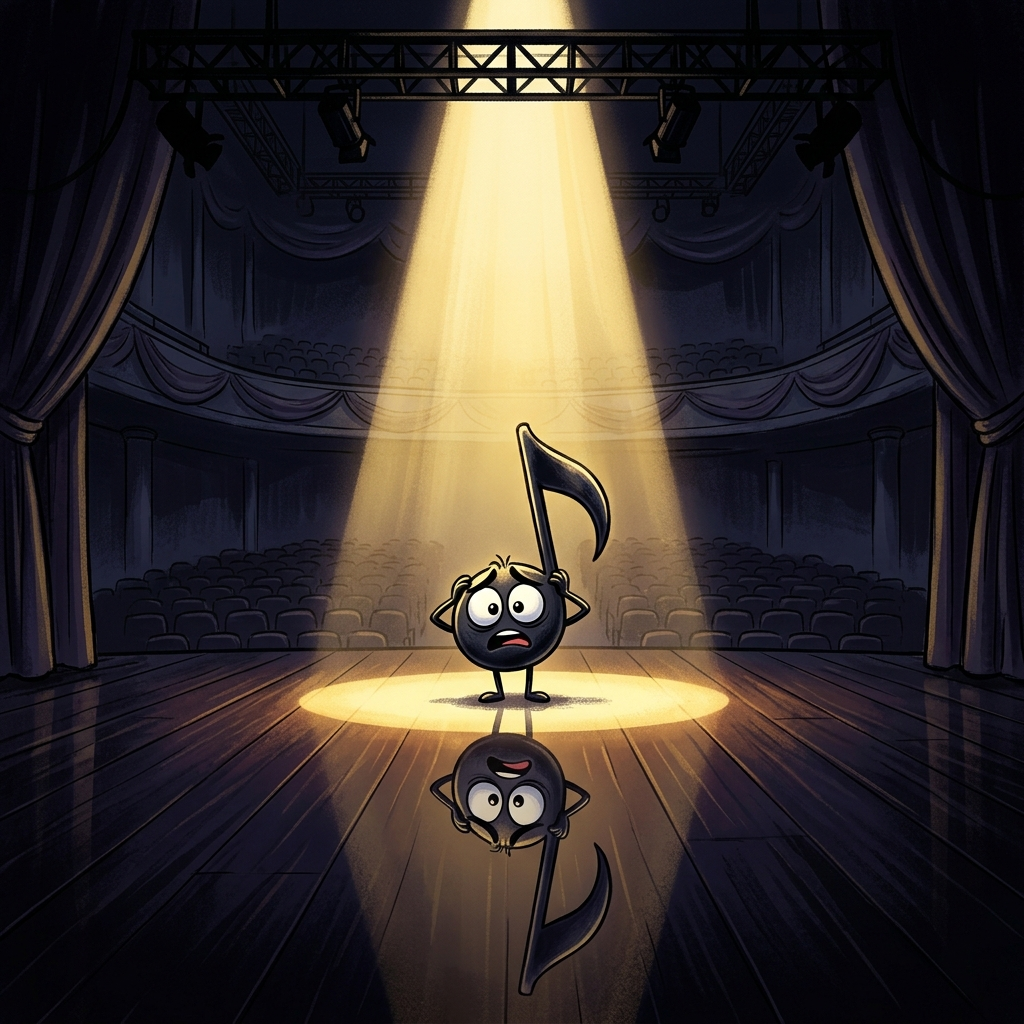
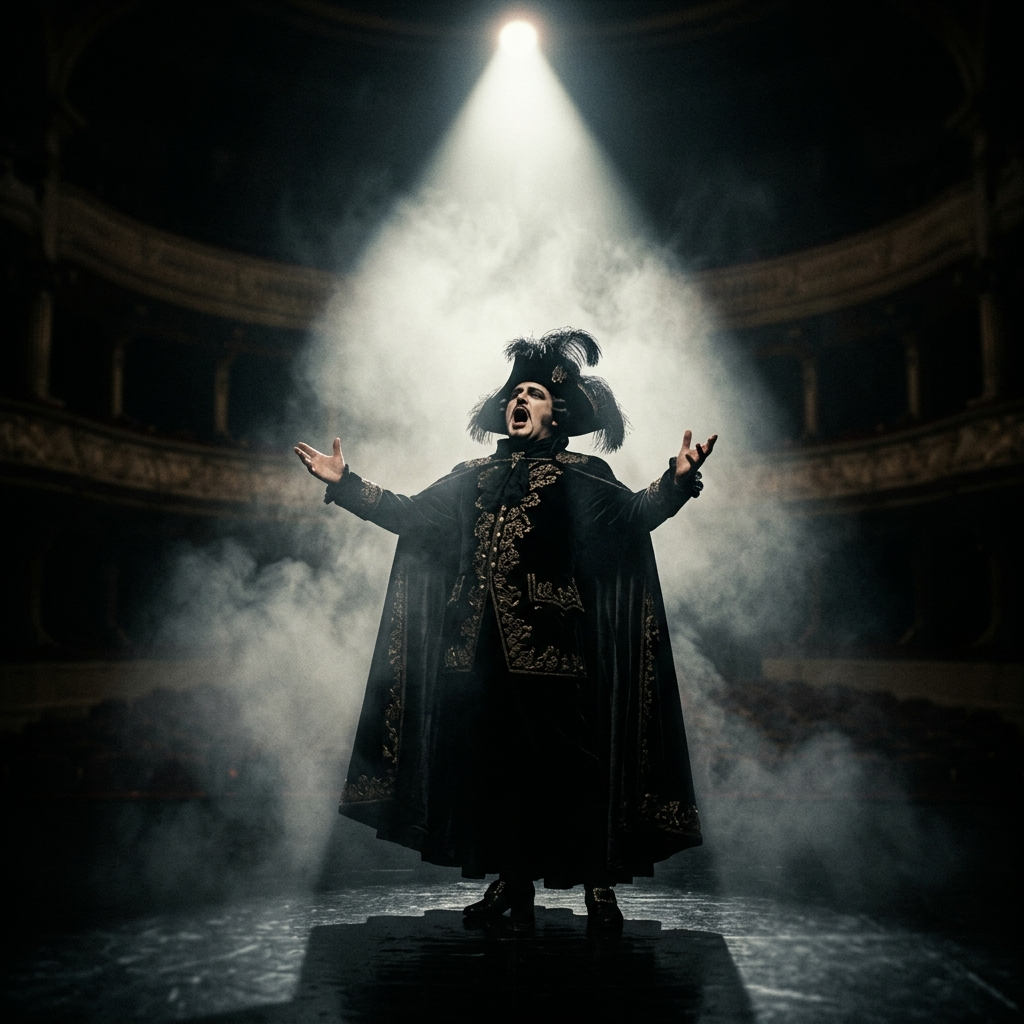
Keep future prestige layers mysterious
Prestige ladder shows '???' for unreached layers (not their names); Magnum Opus
stays '???' until the Layer-1 wall, then reveals — so the journey isn't spoiled.
Includes a photoreal achievement-meme sample swap (real_life).

diff --git a/src/components/prestige/PrestigePage.tsx b/src/components/prestige/PrestigePage.tsx
@@ -81,10 +81,10 @@ export function PrestigePage() {
                 className={`flex flex-col items-center px-2.5 py-1.5 rounded-lg border text-center ${
                   unlocked ? 'border-accent-gold/40 bg-accent-gold/10' : 'border-border/40 bg-bg-secondary/30 opacity-50'
                 }`}
-                title={unlocked ? l.name : `${l.name} — a future layer`}
+                title={unlocked ? l.name : 'A future layer — keep playing to reveal it'}
               >
                 <span className="text-base">{unlocked ? l.icon : '\u{1F512}'}</span>
-                <span className="text-[9px] text-text-muted mt-0.5">{l.name}</span>
+                <span className="text-[9px] text-text-muted mt-0.5">{unlocked ? l.name : '???'}</span>
               </div>
               {i < LADDER.length - 1 && <span className="text-text-muted/40 text-xs">{'→'}</span>}
             </div>
@@ -182,15 +182,15 @@ export function PrestigePage() {
       <section className={`rounded-2xl border p-5 ${layer1WallReached ? 'border-red-500/40 bg-gradient-to-b from-red-500/10 to-transparent' : 'border-border/50 bg-bg-secondary/30'}`}>
         <div className="flex items-center justify-between">
           <h2 className={`text-xl font-display font-semibold ${layer1WallReached ? 'text-red-400' : 'text-text-muted'}`}>
-            {layer1WallReached ? '' : '\u{1F512} '}Magnum Opus
+            {layer1WallReached ? 'Magnum Opus' : '\u{1F512} ???'}
           </h2>
-          <span className="text-[10px] text-text-muted">Layer 2 · record the album</span>
+          <span className="text-[10px] text-text-muted">{layer1WallReached ? 'Layer 2 · record the album' : 'Layer 2 · ???'}</span>
         </div>
 
         {!layer1WallReached ? (
           <div className="mt-3">
             <p className="text-sm text-text-secondary leading-relaxed">
-              Perform <span className="text-text-primary">{ENCORE_WALL_COUNT} Encores</span> to master the stage — then the path to recording opens.
+              Perform <span className="text-text-primary">{ENCORE_WALL_COUNT} Encores</span> to master the stage — then a new path will reveal itself.
             </p>
             <div className="mt-2 text-xs text-text-muted">{encoreCount}/{ENCORE_WALL_COUNT} Encores</div>
             <div className="mt-1 h-2 rounded-full bg-bg-primary overflow-hidden">